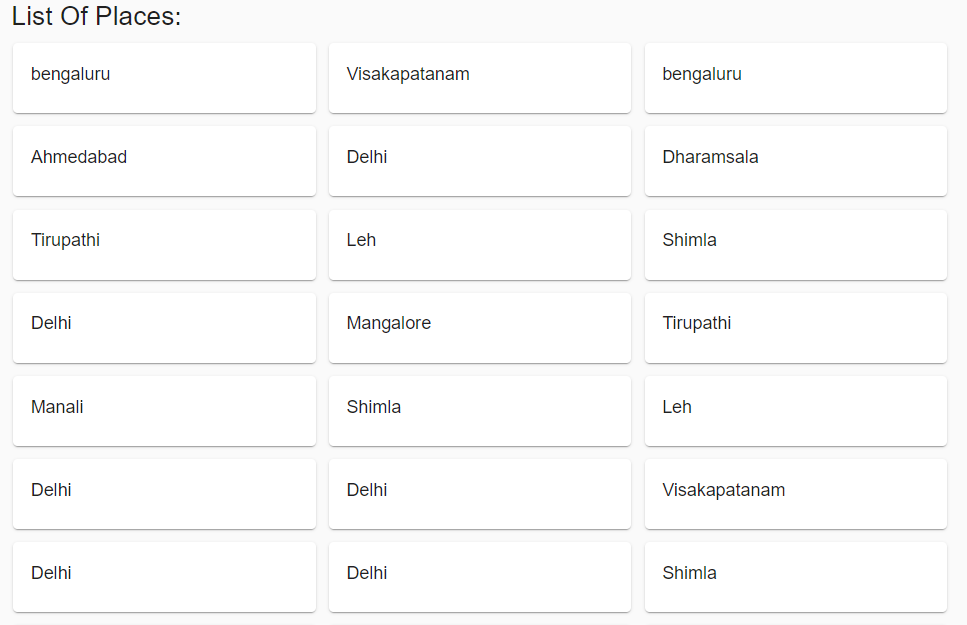
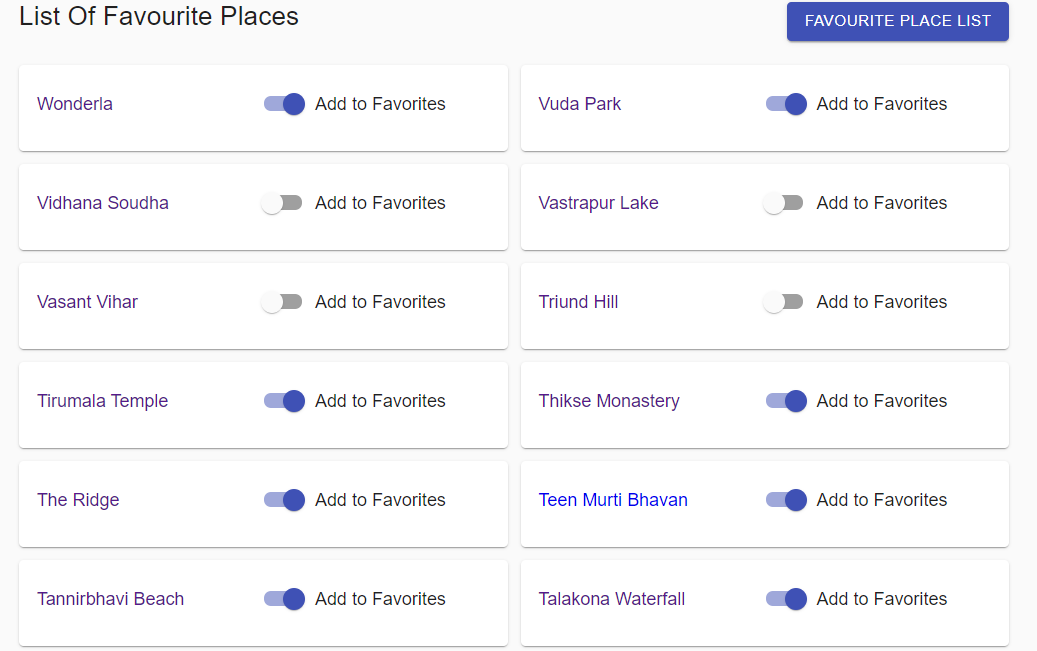
implemented favorite place feature

diff --git a/src/components/Places.js b/src/components/Places.js
@@ -5,7 +5,10 @@ import {Link} from 'react-router-dom';
 import { withStyles } from '@material-ui/core/styles';
 import Card from '@material-ui/core/Card';
 import CardContent from '@material-ui/core/CardContent';
+import FormControlLabel from '@material-ui/core/FormControlLabel';
+import Switch from '@material-ui/core/Switch';
 import Typography from '@material-ui/core/Typography';
+import Button from '@material-ui/core/Button';
 import Loader from './Loader';
 
 
@@ -14,8 +17,8 @@ const styles = {
         marginBottom: 20,
     },
     card: {
-      minWidth: 275,
-      maxWidth: 275,
+      minWidth: 444,
+      maxWidth: 444,
       marginBottom: 12,
       marginLeft: 12,
     },
@@ -23,7 +26,10 @@ const styles = {
         textDecoration: 'none'
     },
     title: {
-        marginLeft: 36,
+        marginLeft: 12,
+    },
+    switch: {
+        fontSize: 10,
     }
   };
 
@@ -38,42 +44,89 @@ class Places extends React.Component {
     clickHandler = (id) => {
         this.props.getSelectedPlaceDetails(id);
     }
+
+    addtoFavourites = (event, id) => {
+        this.props.addToFavourites({
+            favourite: event.target.checked,
+            id
+        });
+    }
     
     render() {
-        const {places, placeDetailsLoading} = this.props;
+        const {places, placeDetailsLoading, favouritePlaces} = this.props;
         const { classes } = this.props;
         return(
             <React.Fragment>
+                <Grid 
+                    container
+                    direction="row"
+                    justify="space-between"
+                    alignItems="center"
+                    className={classes.root}
+                >
                  <Typography 
                     gutterBottom
                     variant="h5"
                     component="h2"
                     className={classes.title}
                     >
-                        List Of Places: 
+                        List Of Favourite Places
                 </Typography>
+                <Link 
+                    to={'/places/favouritePlaces'}
+                    className={classes.link}>
+                        {!isEmpty(favouritePlaces) &&
+                            <Button variant="contained" color="primary">
+                                Favourite Place List
+                            </Button>
+                        }
+                </Link>
+                </Grid>
                 <Grid 
-                        container
-                        direction="row"
-                        justify="center"
-                        alignItems="center"
-                        className={classes.root}
-                    > 
+                    container
+                    direction="row"
+                    justify="center"
+                    alignItems="center"
+                    className={classes.root}
+                > 
                     {placeDetailsLoading ?
                         <Loader loading={placeDetailsLoading} /> :
                             places.map((item, index) => {
                                 return (
-                                        <div onClick={() => this.clickHandler(item.id)}>
-                                            <Link 
-                                               to={`/places/${item.id}`}
-                                               className={classes.link}
-                                            >
+                                        <div>
                                                 <Card className={classes.card}>
                                                     <CardContent>
-                                                        {item.location}
+                                                        <Grid container
+                                                            direction="row"
+                                                            justify="space-between"
+                                                            alignItems="center"
+                                                            >
+                                                                <Grid item xs={6} onClick={() => this.clickHandler(item.id)}>
+                                                                <Link 
+                                                                    to={`/places/${item.id}`}
+                                                                    className={classes.link}
+                                                                >
+                                                                    {item.name}
+                                                                    </Link>
+                                                                </Grid>
+                                                                <Grid item xs={6}>
+                                                                <FormControlLabel
+                                                                    className={classes.switch}
+                                                                    control={
+                                                                    <Switch
+                                                                        labelPlacement="top"
+                                                                        onChange={(e) =>this.addtoFavourites(e, item.id)}
+                                                                        name="checkedB"
+                                                                        color="primary"
+                                                                        checked={item.favourite}
+                                                                    />
+                                                                    }
+                                                                    label="Add to Favorites"
+                                                                />
+                                                                </Grid>
+                                                            </Grid>
                                                     </CardContent>
                                                 </Card>
-                                            </Link>
                                         </div>
                             )}) 
                     }

diff --git a/src/components/FavouritePlaces.js b/src/components/FavouritePlaces.js
@@ -1,0 +1,54 @@
+import React from 'react';
+import Grid from '@material-ui/core/Grid';
+import { makeStyles } from '@material-ui/core/styles';
+import Card from '@material-ui/core/Card';
+import CardContent from '@material-ui/core/CardContent';
+import Typography from '@material-ui/core/Typography';
+
+const useStyles = makeStyles((theme) => ({
+    marginBottom12: {
+        marginBottom: 12,
+    },
+  }));
+
+const FavouritePlaces = ({ favouritePlaces }) => {
+    const classes = useStyles();
+        return(
+            <React.Fragment>
+                 <Typography 
+                    gutterBottom
+                    variant="h5"
+                    component="h2"
+                    >
+                        Favourite Places: 
+                </Typography>
+                <Grid 
+                    container
+                    direction="row"
+                    justify="center"
+                    alignItems="center"
+                > <Grid 
+                container
+                direction="column"
+                >
+                    {favouritePlaces.length ?
+                            favouritePlaces.map((item, index) => {
+                                return (
+                                    <Grid item xs={12} className={classes.marginBottom12}>
+                                        <Card>
+                                        <CardContent>
+                                            {item.name}
+                                        </CardContent>
+                                        </Card>
+                                         </Grid>
+                            )}): <div>No Favourite Place</div>  
+                        }
+                            </Grid>
+                    
+            </Grid>
+            </React.Fragment>
+        )
+};
+
+export default FavouritePlaces;
+

diff --git a/src/reducers/favouritePlaceReducer.js b/src/reducers/favouritePlaceReducer.js
@@ -5,7 +5,8 @@ import {
     GET_PLACE_DETAILS_SUCCESS,
     GET_SELECTED_PLACE_DETAILS_SUCCESS,
     GET_SELECTED_PLACE_DETAILS_FAILURE,
-    GET_SELECTED_PLACE_DETAILS_START
+    GET_SELECTED_PLACE_DETAILS_START,
+    ADD_TO_FAVOURITES
  } from "../constants/CONSTANTS";
 import getPlacesDetailsStartReducer from "./placeDetails/getPlacesDetailsStartReducer";
 import getPlaceDetailsFailureReducer from "./placeDetails/getPlaceDetailsFailureReducer";
@@ -13,6 +14,7 @@ import getPlaceDetailsSuccessReducer from "./placeDetails/getPlaceDetailsSuccess
 import getSelectedPlaceDetailsSuccessReducer from "./selectedPlaceDetails/getSelectedPlaceDetailsSuccessReducer";
 import getSelectedPlaceDetailsFailureReducer from "./selectedPlaceDetails/getSelectedPlaceDetailsFailureReducer";
 import getSelectedPlacesDetailsStartReducer from "./selectedPlaceDetails/getSelectedPlacesDetailsStartReducer";
+import addToFavouritesReducer from "./addToFavouritesReducer";
 
 
 const reducers = {
@@ -22,6 +24,7 @@ const reducers = {
     [GET_SELECTED_PLACE_DETAILS_START]: getSelectedPlacesDetailsStartReducer,
     [GET_SELECTED_PLACE_DETAILS_SUCCESS]: getSelectedPlaceDetailsSuccessReducer,
     [GET_SELECTED_PLACE_DETAILS_FAILURE]: getSelectedPlaceDetailsFailureReducer,
+    [ADD_TO_FAVOURITES]: addToFavouritesReducer,
 }
 
 const favouritePlaceReducer = (state = INITIAL_STATE, action) => {

diff --git a/src/containers/PlacesContainer.js b/src/containers/PlacesContainer.js
@@ -4,22 +4,24 @@ import {
 import Places from "../components/Places";
 import getPlaceDetails from '../actions/getPlaceDetails';
 import getSelectedPlaceDetails from '../actions/getSelectedPlaceDetails';
+import addtoFavourites from '../actions/addtoFavourites';
 
 const mapStateToProps = state => ({
     places: state.places,
     selectedPlace: state.selectedPlace,
-    placeDetailsLoading: state.placeDetailsLoading
+    placeDetailsLoading: state.placeDetailsLoading,
+    favouritePlaces: state.places.filter(item => item.favourite === true),
 });
 
 const mapDispatchToProps = (dispatch) => ({
     getPlaceDetails: () => dispatch(getPlaceDetails()),
     getSelectedPlaceDetails: (id) => dispatch(getSelectedPlaceDetails(id)),
+    addToFavourites: (id) => dispatch(addtoFavourites(id)),
 });
 
 const PlacesContainer = connect(
     mapStateToProps,
     mapDispatchToProps
-
 )(Places)
 
 export default PlacesContainer;

diff --git a/src/App.js b/src/App.js
@@ -13,6 +13,7 @@ import store from './store';
 import './App.css';
 import PlacesContainer from './containers/PlacesContainer';
 import PlacesDetailsContainer from './containers/PlacesDetailsContainer';
+import FavouritePlaceContainer from './containers/FavouritePlaceContainer';
 
 function App() {
   return (
@@ -27,6 +28,9 @@ function App() {
           </Route>
           <Route exact path="/places">
               <PlacesContainer />
+          </Route>
+          <Route exact path='/places/favouritePlaces' >
+            <FavouritePlaceContainer />
           </Route>
           <Route path="/places/:id" component={PlacesDetailsContainer} />
         </Switch>

diff --git a/src/components/SelectedPlace.js b/src/components/SelectedPlace.js
@@ -52,9 +52,6 @@ const SelectedPlace = ({
             Longitude: {selectedPlace.longitude}
             </Typography>
             <Typography gutterBottom variant="h6" component="h5">
-            Place: {selectedPlace.location}
-            </Typography>
-            <Typography gutterBottom variant="h6" component="h5">
               pincode: {selectedPlace.pincode}
             </Typography>
             <Typography variant="body2" color="textSecondary" component="p">

diff --git a/src/reducers/addToFavouritesReducer.js b/src/reducers/addToFavouritesReducer.js
@@ -1,0 +1,16 @@
+const addToFavouritesReducer = (state, payload) => {
+    const updatedPlaces = state.places.map(item => {
+        if(item.id === payload.id) {
+            return {
+                ...item,
+                favourite: payload.favourite
+            };
+        }
+        return item;
+    });
+    return {
+        ...state,
+        places: updatedPlaces
+    }
+}
+export default addToFavouritesReducer;

diff --git a/src/reducers/placeDetails/getPlaceDetailsSuccessReducer.js b/src/reducers/placeDetails/getPlaceDetailsSuccessReducer.js
@@ -1,9 +1,14 @@
 import get from 'lodash/get';
 
 const getPlaceDetailsSuccessReducer = (state, payload) => {
+    const data = get(payload, 'data.places', []);
+    const updatedPlaces = data.map(item => ({
+        ...item,
+        favourite: false,
+    }));
     return {
         ...state,
-        places: get(payload, 'data.places', []),
+        places: updatedPlaces,
         placeDetailsLoading: false,
     }
 }

diff --git a/src/constants/CONSTANTS.js b/src/constants/CONSTANTS.js
@@ -4,3 +4,4 @@ export const GET_PLACE_DETAILS_SUCCESS = 'GET_PLACE_DETAILS_SUCCESS';
 export const GET_SELECTED_PLACE_DETAILS_START = 'GET_SELECTED_PLACE_DETAILS_START';
 export const GET_SELECTED_PLACE_DETAILS_FAILURE = 'GET_SELECTED_PLACE_DETAILS_FAILURE';
 export const GET_SELECTED_PLACE_DETAILS_SUCCESS = 'GET_SELECTED_PLACE_DETAILS_SUCCESS';
+export const ADD_TO_FAVOURITES = 'ADD_TO_FAVOURITES';

diff --git a/src/containers/FavouritePlaceContainer.js b/src/containers/FavouritePlaceContainer.js
@@ -1,0 +1,14 @@
+import {
+    connect
+} from 'react-redux';
+import FavouritePlaces from '../components/FavouritePlaces';
+
+const mapStateToProps = state => ({
+    favouritePlaces: state.places.filter(item => item.favourite === true),
+});
+
+const FavouritePlaceContainer = connect(
+    mapStateToProps
+)(FavouritePlaces)
+
+export default FavouritePlaceContainer;

diff --git a/src/actions/addtoFavourites.js b/src/actions/addtoFavourites.js
@@ -1,0 +1,8 @@
+import { ADD_TO_FAVOURITES } from '../constants/CONSTANTS'
+
+const addtoFavourites = (id) => ({
+    type: ADD_TO_FAVOURITES,
+    payload: id,
+});
+
+export default addtoFavourites;

diff --git a/src/constants/INITIAL_STATE.js b/src/constants/INITIAL_STATE.js
@@ -3,6 +3,7 @@
      placeDetailsLoading: false,
      selectedPlace: {},
      selectedPlaceDetailsLoading: false,
+     favouritePlaces: [],
  }
 
  export default INITIAL_STATE;
